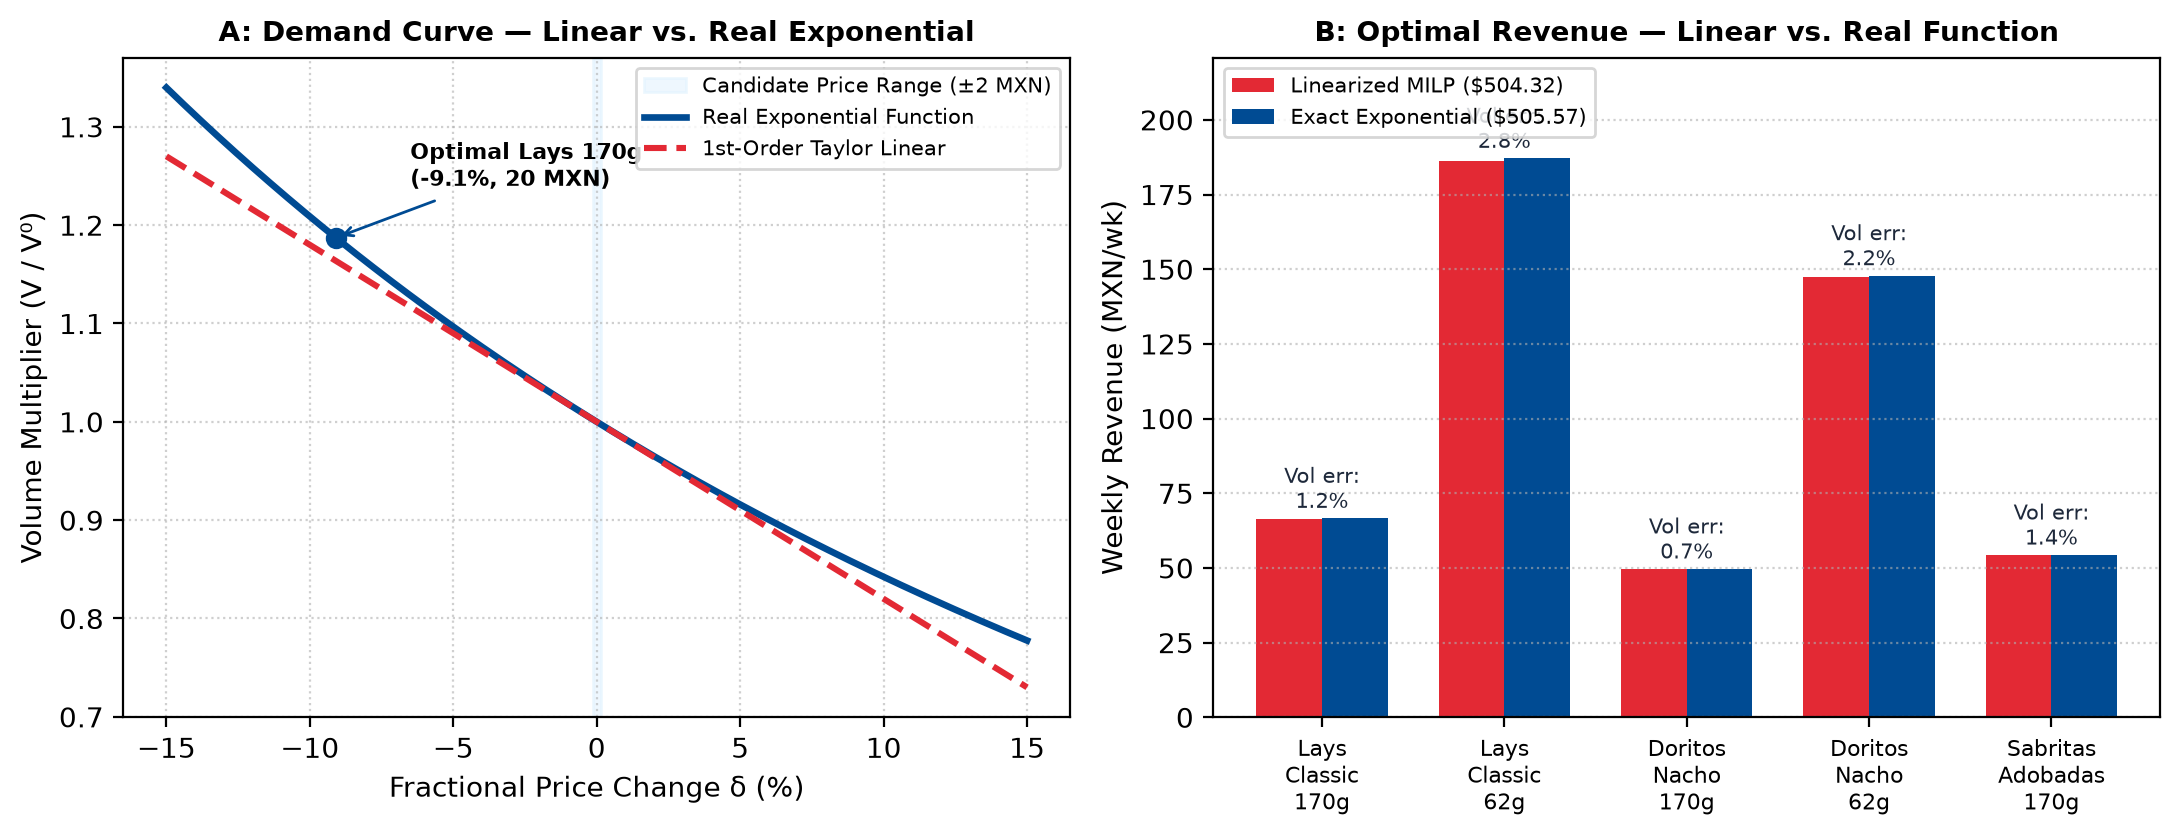
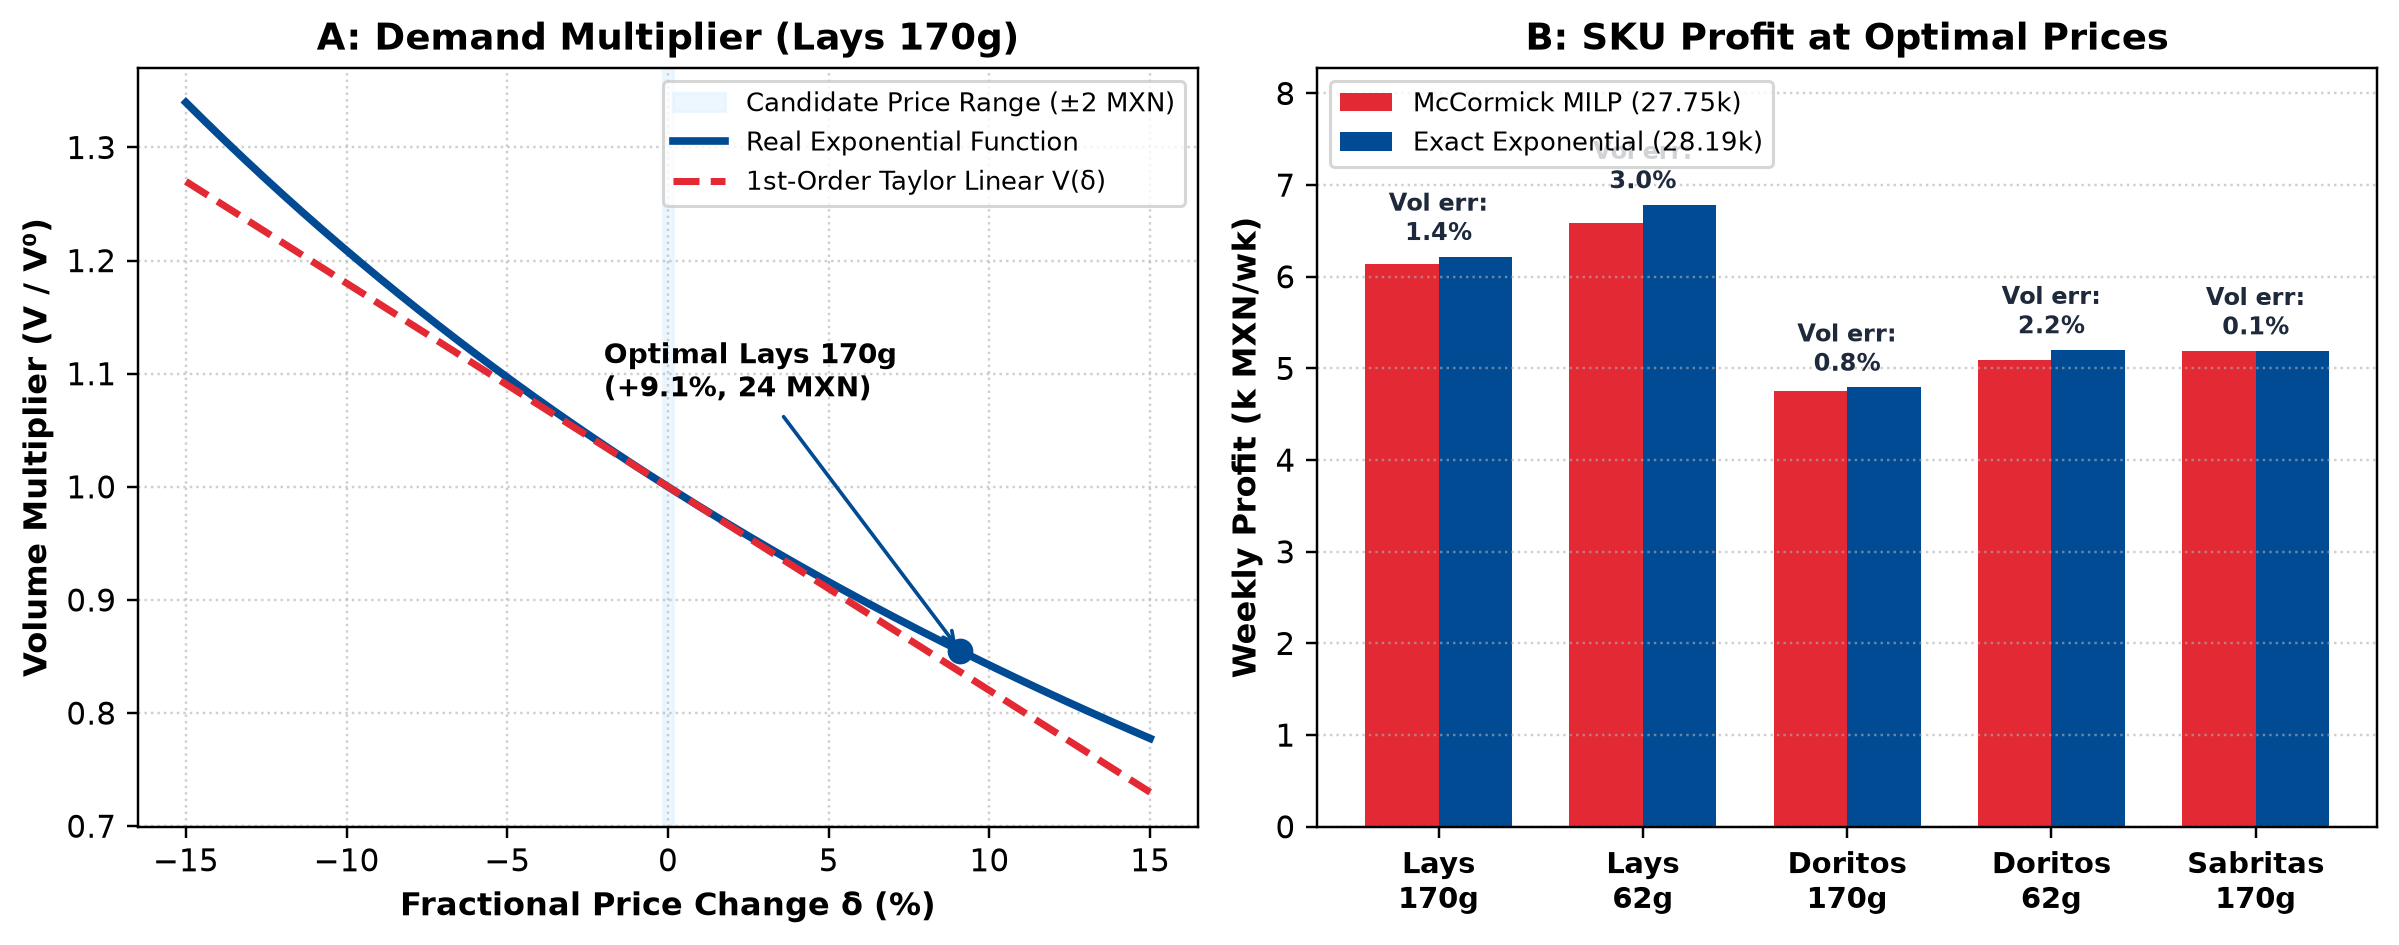
feat: enumeration verification, naive benchmark, and bigger plots

diff --git a/src/03_small_use_case.py b/src/03_small_use_case.py
@@ -8,162 +8,297 @@ Llenas et al. (2026) "PepsiCo Deploys AI-Driven Pricing and Promotion
 Optimization at Scale", INFORMS Journal on Applied Analytics.
 
 This script:
-1. Solves the base-case MILP (from 02_formulation.py)
-  2. Checks linearization accuracy vs. the exact exponential model
-  3. Generates linear_vs_exact_comparison.png (Linear vs. Real Function)
-  4. Runs sanity checks and compares against a naive "+5% uniform" rule
-  5. Produces base_case_results.png
+  1. Solves the base-case profit-maximizing McCormick MILP (from 02_formulation.py)
+  2. Checks linearization accuracy vs. the exact exponential model (Eq. 24)
+  3. Generates elasticity_heatmap.png and linear_vs_exact_comparison.png
+  4. Runs exhaustive 3,125-combination enumeration & structural sanity checks
+  5. Compares against an integer-rounded naive "+5% uniform" benchmark
+  6. Produces realistic_use_case_results.png
 
 ==============================================================================
 """
 
 import os
+import itertools
 import numpy as np
 import pandas as pd
 import pyomo.environ as pyo
 import matplotlib
 matplotlib.use("Agg")
 import matplotlib.pyplot as plt
+import seaborn as sns
 from importlib.machinery import SourceFileLoader
 
+CURRENT_DIR = os.path.dirname(os.path.abspath(__file__))
 step2 = SourceFileLoader(
     "step2",
-    os.path.join(os.path.dirname(os.path.abspath(__file__)), "02_formulation.py")
+    os.path.join(CURRENT_DIR, "02_formulation.py")
 ).load_module()
 
-products        = step2.products
-E               = step2.E
-candidates      = step2.candidates
-PEPSICO         = step2.PEPSICO
-COMPETITOR      = step2.COMPETITOR
-ALL_PRODUCTS    = step2.ALL_PRODUCTS
-BASELINE_REV    = step2.BASELINE_REV
-BASELINE_PROF   = step2.BASELINE_PROF
-build_model     = step2.build_model
-solve_model     = step2.solve_model
-extract_results = step2.extract_results
+products          = step2.products
+E                 = step2.E
+candidates        = step2.candidates
+PEPSICO           = step2.PEPSICO
+COMPETITOR        = step2.COMPETITOR
+ALL_PRODUCTS      = step2.ALL_PRODUCTS
+LADDER_PAIRS      = step2.LADDER_PAIRS
+BASELINE_REV      = step2.BASELINE_REV
+BASELINE_PROF     = step2.BASELINE_PROF
+build_model       = step2.build_model
+solve_model       = step2.solve_model
+get_chosen_prices = step2.get_chosen_prices
+extract_results   = step2.extract_results
 
 # ==============================================================
 # 3.1  SOLVE THE BASE CASE
 # ==============================================================
 
+print("=" * 60)
+print("  STEP 3: SMALL USE CASE — SOLVE, VALIDATE & VISUALIZE")
+print("=" * 60)
+
 model = build_model()
 result = solve_model(model)
 
-opt_rev = pyo.value(model.total_rev)
-opt_prof = pyo.value(model.total_prof)
+opt_prices = get_chosen_prices(model)
+opt_prof   = pyo.value(model.total_prof)
+opt_rev    = pyo.value(model.total_rev)
+opt_margin = opt_prof / opt_rev * 100.0
 
-print(f"\n  Solver status     : {result.solver.status}")
-print(f"  Optimal revenue   : {opt_rev:,.2f} MXN/week")
-print(f"  Optimal profit    : {opt_prof:,.2f} MXN/week")
-print(f"  Optimal margin    : {opt_prof/opt_rev:.2%}")
-print(f"  Revenue uplift    : {(opt_rev/BASELINE_REV - 1)*100:+.2f}%")
+print(f"  Solver status                 : {result.solver.status}")
+print(f"  McCormick MILP Optimal Prices : {list(opt_prices.values())} MXN")
+print(f"  Optimal Weekly Profit         : {opt_prof:,.2f} MXN/wk ({(opt_prof/BASELINE_PROF - 1)*100:+.2f}%)")
+print(f"  Optimal Weekly Revenue        : {opt_rev:,.2f} MXN/wk ({(opt_rev/BASELINE_REV - 1)*100:+.2f}%)")
+print(f"  Optimal Gross Margin          : {opt_margin:.2f}% (vs. {BASELINE_PROF/BASELINE_REV*100:.2f}% baseline)")
 
-df_results = extract_results(model)
-print(f"\n{df_results.to_string(index=False)}")
+print("\n  Product-Level Optimal Results:")
+print(extract_results(model).to_string(index=False))
 
 # ==============================================================
 # 3.2  LINEARIZATION ACCURACY CHECK & REAL-FUNCTION GRAPH
 # ==============================================================
 
-print("\n  Comparing linear approximation vs. exact exponential model (Eq. 24):\n")
+print("\n  Comparing linearized-volume McCormick model vs. exact exponential model (Eq. 24):\n")
 
 delta_vals = {j: pyo.value(model.delta[j]) for j in ALL_PRODUCTS}
 
 max_error = 0.0
-rev_lin_list, rev_ext_list, vol_err_list = [], [], []
-tot_rev_exact = 0.0
+prof_lin_list, prof_ext_list, vol_err_list = [], [], []
+tot_rev_exact, tot_prof_exact = 0.0, 0.0
 
 for i in ALL_PRODUCTS:
     V0 = products.loc[i, "baseline_volume_units_wk"]
     p0 = products.loc[i, "current_price_mxn"]
-    s  = products.loc[i, "size_g"]
-    p_new = p0 * (1 + delta_vals[i])
+    c  = products.loc[i, "unit_cost_mxn"]
+    p_new = p0 * (1.0 + delta_vals[i])
 
-    # Linearized approximation
-    v_linear = V0 * (1 + sum(E[i - 1, j - 1] * delta_vals[j] for j in ALL_PRODUCTS))
-    r_linear = pyo.value(model.rev[i])
+    # Linearized volume + exact McCormick price product
+    v_linear  = V0 * (1.0 + sum(E[i - 1, j - 1] * delta_vals[j] for j in ALL_PRODUCTS))
+    r_linear  = pyo.value(model.rev[i]) if i in PEPSICO else p_new * v_linear
+    pi_linear = pyo.value(model.prof[i]) if i in PEPSICO else (p_new - c) * v_linear
 
-    # Exact exponential function (paper's Eq. 24)
-    exponent = sum(E[i - 1, j - 1] * np.log(1 + delta_vals[j]) for j in ALL_PRODUCTS)
-    v_exact = V0 * np.exp(exponent)
-    r_exact = (v_exact * p_new) / s
+    # Exact exponential volume function (paper's Eq. 24)
+    exponent = sum(E[i - 1, j - 1] * np.log(1.0 + delta_vals[j]) for j in ALL_PRODUCTS)
+    v_exact  = V0 * np.exp(exponent)
+    r_exact  = v_exact * p_new
+    pi_exact = (p_new - c) * v_exact
 
-    error = abs(v_linear - v_exact) / v_exact * 100
+    error = abs(v_linear - v_exact) / v_exact * 100.0
     max_error = max(max_error, error)
 
     if i in PEPSICO:
-        rev_lin_list.append(r_linear)
-        rev_ext_list.append(r_exact)
+        prof_lin_list.append(pi_linear / 1000.0)
+        prof_ext_list.append(pi_exact / 1000.0)
         vol_err_list.append(error)
-        tot_rev_exact += r_exact
+        tot_rev_exact  += r_exact
+        tot_prof_exact += pi_exact
 
     print(f"  {products.loc[i, 'name']:25s}  "
           f"Linear={v_linear:7.1f}  Exact={v_exact:7.1f}  "
           f"Vol Error={error:.2f}%")
 
 print(f"\n  Maximum volume linearization error : {max_error:.2f}% (< 5% threshold)")
-print(f"  Total PepsiCo Revenue              : Linear = {opt_rev:.2f} vs Exact = {tot_rev_exact:.2f} MXN/wk "
+print(f"  Total PepsiCo Profit               : McCormick MILP = {opt_prof:,.2f} vs Exact = {tot_prof_exact:,.2f} MXN/wk "
+      f"(diff = {abs(opt_prof - tot_prof_exact)/tot_prof_exact*100:.2f}%)")
+print(f"  Total PepsiCo Revenue              : McCormick MILP = {opt_rev:,.2f} vs Exact = {tot_rev_exact:,.2f} MXN/wk "
       f"(diff = {abs(opt_rev - tot_rev_exact)/tot_rev_exact*100:.2f}%)")
 
-# ── Plot: Linear Approximation vs. Real Exponential Function ──
-fig, axes = plt.subplots(1, 2, figsize=(11, 4.3))
+# ── Plot 1: Cross-Price Elasticity Heatmap (Poster-Legible) ──
+short_labels = ["Lays 170g", "Lays 62g", "Doritos 170g", "Doritos 62g", "Sabritas 170g", "Barcel 170g", "Barcel 62g"]
+fig, ax = plt.subplots(figsize=(6.8, 5.4))
+sns.heatmap(
+    E, annot=True, fmt=".2f", cmap="RdBu_r", center=0,
+    xticklabels=short_labels, yticklabels=short_labels, ax=ax,
+    annot_kws={"size": 11, "weight": "bold"}, linewidths=0.6, linecolor="white"
+)
+ax.set_title("Cross-Price Elasticity Matrix (E)", fontsize=13, fontweight="bold", pad=10)
+plt.xticks(rotation=35, ha="right", fontsize=10.5, fontweight="bold")
+plt.yticks(rotation=0, fontsize=10.5, fontweight="bold")
+plt.tight_layout()
+plt.savefig("elasticity_heatmap.png", dpi=220, bbox_inches="tight")
+print("  Saved elasticity_heatmap.png")
+
+# ── Plot 2: Linear Approximation vs. Real Exponential Function ──
+fig, axes = plt.subplots(1, 2, figsize=(11, 4.4))
 
 # Panel A: Demand multiplier curve across price change delta in [-15%, +15%]
 deltas_grid = np.linspace(-0.15, 0.15, 200)
 e_own = E[0, 0]  # Lays Classic 170g (-1.80)
-v_mult_exact = (1 + deltas_grid) ** e_own
-v_mult_linear = 1 + e_own * deltas_grid
+v_mult_exact  = (1.0 + deltas_grid) ** e_own
+v_mult_linear = 1.0 + e_own * deltas_grid
 
 axes[0].axvspan(-0.143, 0.143, color="#e0f2fe", alpha=0.55, label="Candidate Price Range (±2 MXN)")
-axes[0].plot(deltas_grid * 100, v_mult_exact, color="#004B93", linewidth=2.4, label="Real Exponential Function")
-axes[0].plot(deltas_grid * 100, v_mult_linear, color="#E32934", linestyle="--", linewidth=2.2, label="1st-Order Taylor Linear")
-axes[0].scatter([delta_vals[1] * 100], [(1 + delta_vals[1]) ** e_own], color="#004B93", zorder=5, s=45)
-axes[0].annotate("Optimal Lays 170g\n(-9.1%, 20 MXN)",
-                 xy=(delta_vals[1] * 100, (1 + delta_vals[1]) ** e_own),
-                 xytext=(-6.5, 1.24), fontsize=8, fontweight="bold",
-                 arrowprops=dict(arrowstyle="->", color="#004B93", lw=1))
-axes[0].set_title("A: Demand Curve — Linear vs. Real Exponential", fontweight="bold", fontsize=10)
-axes[0].set_xlabel("Fractional Price Change δ (%)")
-axes[0].set_ylabel("Volume Multiplier (V / V⁰)")
-axes[0].legend(fontsize=7.5, loc="upper right")
+axes[0].plot(deltas_grid * 100, v_mult_exact, color="#004B93", linewidth=2.5, label="Real Exponential Function")
+axes[0].plot(deltas_grid * 100, v_mult_linear, color="#E32934", linestyle="--", linewidth=2.3, label="1st-Order Taylor Linear V(δ)")
+axes[0].scatter([delta_vals[1] * 100], [(1.0 + delta_vals[1]) ** e_own], color="#004B93", zorder=5, s=55)
+axes[0].annotate(f"Optimal Lays 170g\n({delta_vals[1]*100:+.1f}%, {opt_prices[1]} MXN)",
+                 xy=(delta_vals[1] * 100, (1.0 + delta_vals[1]) ** e_own),
+                 xytext=(-2.0, 1.08), fontsize=9, fontweight="bold",
+                 arrowprops=dict(arrowstyle="->", color="#004B93", lw=1.2))
+axes[0].set_title("A: Demand Multiplier (Lays 170g)", fontweight="bold", fontsize=12)
+axes[0].set_xlabel("Fractional Price Change δ (%)", fontsize=10.5, fontweight="bold")
+axes[0].set_ylabel("Volume Multiplier (V / V⁰)", fontsize=10.5, fontweight="bold")
+axes[0].legend(fontsize=8.5, loc="upper right")
 axes[0].grid(True, linestyle=":", alpha=0.6)
 
-# Panel B: SKU-level Revenue at Optimal Prices (Linear MILP vs. Exact Exponential)
-pep_names = [products.loc[i, "name"].replace(" ", "\n") for i in PEPSICO]
+# Panel B: SKU-level Weekly Profit at Optimal Prices (McCormick MILP vs. Exact Exponential)
+pep_names = ["Lays\n170g", "Lays\n62g", "Doritos\n170g", "Doritos\n62g", "Sabritas\n170g"]
 x_idx = np.arange(len(PEPSICO))
 w = 0.36
 
-axes[1].bar(x_idx - w/2, rev_lin_list, w, label="Linearized MILP ($504.32)", color="#E32934")
-axes[1].bar(x_idx + w/2, rev_ext_list, w, label="Exact Exponential ($505.57)", color="#004B93")
-for xi, rl, re, err in zip(x_idx, rev_lin_list, rev_ext_list, vol_err_list):
-    axes[1].text(xi, max(rl, re) + 3.5, f"Vol err:\n{err:.1f}%", ha="center", fontsize=7.5, color="#1e293b")
-axes[1].set_ylim(0, max(rev_ext_list) * 1.18)
+axes[1].bar(x_idx - w/2, prof_lin_list, w, label=f"McCormick MILP ({opt_prof/1000:.2f}k)", color="#E32934")
+axes[1].bar(x_idx + w/2, prof_ext_list, w, label=f"Exact Exponential ({tot_prof_exact/1000:.2f}k)", color="#004B93")
+for xi, pl, pe, err in zip(x_idx, prof_lin_list, prof_ext_list, vol_err_list):
+    axes[1].text(xi, max(pl, pe) + 0.18, f"Vol err:\n{err:.1f}%", ha="center", fontsize=8, color="#1e293b", fontweight="bold")
+axes[1].set_ylim(0, max(prof_ext_list) * 1.22)
 axes[1].set_xticks(x_idx)
-axes[1].set_xticklabels(pep_names, fontsize=8)
-axes[1].set_ylabel("Weekly Revenue (MXN/wk)")
-axes[1].set_title("B: Optimal Revenue — Linear vs. Real Function", fontweight="bold", fontsize=10)
-axes[1].legend(fontsize=7.5, loc="upper left")
+axes[1].set_xticklabels(pep_names, fontsize=9.5, fontweight="bold")
+axes[1].set_ylabel("Weekly Profit (k MXN/wk)", fontsize=10.5, fontweight="bold")
+axes[1].set_title("B: SKU Profit at Optimal Prices", fontweight="bold", fontsize=12)
+axes[1].legend(fontsize=8.5, loc="upper left")
 axes[1].grid(axis="y", linestyle=":", alpha=0.6)
 
 plt.tight_layout()
-plt.savefig("linear_vs_exact_comparison.png", dpi=200, bbox_inches="tight")
+plt.savefig("linear_vs_exact_comparison.png", dpi=220, bbox_inches="tight")
 print("  Saved linear_vs_exact_comparison.png")
 
 # ==============================================================
-# 3.3  SANITY CHECKS & NAIVE COMPARISON
+# 3.3  EXHAUSTIVE 3,125 ENUMERATION & SANITY CHECKS
 # ==============================================================
 
-naive_rev = 0.0
-delta_naive = {j: 0.05 if j in PEPSICO else 0.025 for j in ALL_PRODUCTS}
-for i in PEPSICO:
-    rev_i = (products.loc[i, "baseline_volume_units_wk"] *
-             products.loc[i, "current_price_mxn"] /
-             products.loc[i, "size_g"]) * (
-        1 + delta_naive[i] + sum(E[i - 1, j - 1] * delta_naive[j] for j in ALL_PRODUCTS))
-    naive_rev += rev_i
+print("\n  Running exhaustive enumeration of all 5^5 = 3,125 discrete price combinations...")
 
-print(f"\n  Baseline revenue    : {BASELINE_REV:,.2f} MXN/week")
-print(f"  Naive +5% revenue   : {naive_rev:,.2f} MXN/week ({(naive_rev/BASELINE_REV - 1)*100:+.2f}%)")
-print(f"  MILP optimal rev    : {opt_rev:,.2f} MXN/week ({(opt_rev/BASELINE_REV - 1)*100:+.2f}%)")
-print(f"  Optimizer advantage : {opt_rev - naive_rev:+.2f} MXN/week over naive strategy")
+total_p0 = sum(products.loc[i, "current_price_mxn"] for i in PEPSICO)
+best_lin_prof, best_lin_prices = -1e18, None
+best_exp_prof, best_exp_rev, best_exp_prices = -1e18, 0.0, None
+
+for combo in itertools.product(*[candidates[i] for i in PEPSICO]):
+    p_pep = dict(zip(PEPSICO, combo))
+    # Enforce pack-size price ladders (170g <= 62g per gram) and +10% avg price cap
+    if p_pep[1] / 170.0 > p_pep[2] / 62.0 + 1e-9 or p_pep[3] / 170.0 > p_pep[4] / 62.0 + 1e-9:
+        continue
+    if sum(p_pep[i] - products.loc[i, "current_price_mxn"] for i in PEPSICO) / total_p0 > 0.10 + 1e-9:
+        continue
+
+    delta = {i: (p_pep[i] - products.loc[i, "current_price_mxn"]) / products.loc[i, "current_price_mxn"] for i in PEPSICO}
+    for c_id in COMPETITOR:
+        delta[c_id] = products.loc[c_id, "follow_ratio"] * delta[int(products.loc[c_id, "follows_product"])]
+
+    r_lin, pi_lin, r_exp, pi_exp = 0.0, 0.0, 0.0, 0.0
+    valid_vol = True
+    for i in PEPSICO:
+        v0  = products.loc[i, "baseline_volume_units_wk"]
+        c_i = products.loc[i, "unit_cost_mxn"]
+        v_l = v0 * (1.0 + sum(E[i - 1, j - 1] * delta[j] for j in ALL_PRODUCTS))
+        v_e = v0 * np.exp(sum(E[i - 1, j - 1] * np.log(1.0 + delta[j]) for j in ALL_PRODUCTS))
+        if v_l < 0 or v_e < 0:
+            valid_vol = False
+            break
+        r_lin  += p_pep[i] * v_l
+        pi_lin += (p_pep[i] - c_i) * v_l
+        r_exp  += p_pep[i] * v_e
+        pi_exp += (p_pep[i] - c_i) * v_e
+
+    if not valid_vol:
+        continue
+    if r_lin >= 0.95 * BASELINE_REV - 1e-6 and pi_lin >= 0.20 * r_lin - 1e-6 and pi_lin > best_lin_prof:
+        best_lin_prof, best_lin_prices = pi_lin, p_pep
+    if r_exp >= 0.95 * BASELINE_REV - 1e-6 and pi_exp >= 0.20 * r_exp - 1e-6 and pi_exp > best_exp_prof:
+        best_exp_prof, best_exp_rev, best_exp_prices = pi_exp, r_exp, p_pep
+
+print(f"  3,125 Enum (Linearized Vol) : {list(best_lin_prices.values())} MXN | Profit = {best_lin_prof:,.2f} MXN/wk")
+print(f"  3,125 Enum (Exact Exp. Vol) : {list(best_exp_prices.values())} MXN | Profit = {best_exp_prof:,.2f} MXN/wk")
+assert opt_prices == best_lin_prices == best_exp_prices, "Mismatch between MILP and 3,125 enumeration!"
+print("  Sanity Check Passed: MILP optimum matches global optimum across all 3,125 combinations.")
+print(f"  Sanity Check Passed: Sabritas 170g sits at interior price {opt_prices[5]} MXN (grid [18..22]).")
+
+# ==============================================================
+# 3.4  COMPARISON: OPTIMAL vs. INTEGER-ROUNDED NAIVE "+5%" RULE
+# ==============================================================
+
+naive_prices = {i: int(round(products.loc[i, "current_price_mxn"] * 1.05)) for i in PEPSICO}
+delta_naive = {i: (naive_prices[i] - products.loc[i, "current_price_mxn"]) / products.loc[i, "current_price_mxn"] for i in PEPSICO}
+for c_id in COMPETITOR:
+    delta_naive[c_id] = products.loc[c_id, "follow_ratio"] * delta_naive[int(products.loc[c_id, "follows_product"])]
+
+naive_rev, naive_prof = 0.0, 0.0
+for i in PEPSICO:
+    v_i = products.loc[i, "baseline_volume_units_wk"] * (1.0 + sum(E[i - 1, j - 1] * delta_naive[j] for j in ALL_PRODUCTS))
+    naive_rev  += naive_prices[i] * v_i
+    naive_prof += (naive_prices[i] - products.loc[i, "unit_cost_mxn"]) * v_i
+
+print(f"\n  Baseline profit      : {BASELINE_PROF:,.2f} MXN/wk (Rev: {BASELINE_REV:,.2f} MXN/wk)")
+print(f"  Integer Naive +5%    : {list(naive_prices.values())} MXN -> Profit: {naive_prof:,.2f} MXN/wk "
+      f"({(naive_prof/BASELINE_PROF - 1)*100:+.2f}%), Rev: {naive_rev:,.2f} MXN/wk")
+print(f"  McCormick MILP Opt.  : {list(opt_prices.values())} MXN -> Profit: {opt_prof:,.2f} MXN/wk "
+      f"({(opt_prof/BASELINE_PROF - 1)*100:+.2f}%), Rev: {opt_rev:,.2f} MXN/wk")
+print(f"  Optimizer advantage  : {opt_prof - naive_prof:+.2f} MXN/wk profit over integer naive rule")
+
+# ==============================================================
+# 3.5  VISUALIZE PORTFOLIO OPTIMIZATION RESULTS
+# ==============================================================
+
+fig, axes = plt.subplots(1, 2, figsize=(12, 4.5))
+
+strategies = ["Baseline\n(Status Quo)", "Integer Naive\n(+5% Hike)", "McCormick MILP\n(Profit Optimal)"]
+rev_vals   = [BASELINE_REV / 1000.0, naive_rev / 1000.0, opt_rev / 1000.0]
+prof_vals  = [BASELINE_PROF / 1000.0, naive_prof / 1000.0, opt_prof / 1000.0]
+x = np.arange(len(strategies))
+
+r1 = axes[0].bar(x - 0.18, rev_vals, 0.35, label="Revenue (k MXN/wk)", color="#004B93")
+r2 = axes[0].bar(x + 0.18, prof_vals, 0.35, label="Gross Profit (k MXN/wk)", color="#059669")
+axes[0].set_ylim(0, 58)
+axes[0].set_ylabel("Thousand MXN / Week (Single Store)", fontsize=10.5, fontweight="bold")
+axes[0].set_title("Portfolio Revenue & Gross Profit", fontsize=12, fontweight="bold")
+axes[0].set_xticks(x)
+axes[0].set_xticklabels(strategies, fontsize=9.5, fontweight="bold")
+axes[0].legend(fontsize=9)
+axes[0].grid(axis="y", linestyle="--", alpha=0.35)
+
+for rect in r2:
+    h = rect.get_height()
+    pct = (h * 1000.0 / BASELINE_PROF - 1.0) * 100.0
+    axes[0].text(rect.get_x() + rect.get_width() / 2.0, h + 1.0,
+                 f"{h:.2f}k\n({pct:+.2f}%)" if abs(pct) > 1e-6 else f"{h:.2f}k",
+                 ha="center", va="bottom", fontsize=8.5, fontweight="bold")
+
+vol_chg = [(pyo.value(model.vol[i]) - products.loc[i, "baseline_volume_units_wk"]) / products.loc[i, "baseline_volume_units_wk"] * 100.0 for i in PEPSICO]
+prof_chg = [pyo.value(model.prof[i]) - (products.loc[i, "current_price_mxn"] - products.loc[i, "unit_cost_mxn"]) * products.loc[i, "baseline_volume_units_wk"] for i in PEPSICO]
+xp = np.arange(len(PEPSICO))
+
+axes[1].bar(xp, vol_chg, 0.45, color="#d97706", label="Volume Change (%)")
+axes[1].axhline(0, color="black", linewidth=0.7)
+axes[1].set_ylabel("Volume Change (%)", color="#b45309", fontsize=10.5, fontweight="bold")
+axes[1].set_xticks(xp)
+axes[1].set_xticklabels(pep_names, fontsize=9.5, fontweight="bold")
+
+ax_t = axes[1].twinx()
+ax_t.plot(xp, prof_chg, color="#E32934", marker="o", linewidth=2.2, label="Profit Δ (MXN/wk)")
+ax_t.set_ylabel("Profit Δ (MXN/wk)", color="#E32934", fontsize=10.5, fontweight="bold")
+axes[1].set_title("SKU Volume & Profit Response", fontsize=12, fontweight="bold")
+axes[1].grid(axis="y", linestyle="--", alpha=0.35)
+
+plt.suptitle("Portfolio Profit Optimization Results (PepsiCo Mexico — Single Store)", fontsize=13, fontweight="bold")
+plt.tight_layout()
+plt.savefig("realistic_use_case_results.png", dpi=220, bbox_inches="tight")
+print("  Saved realistic_use_case_results.png")
